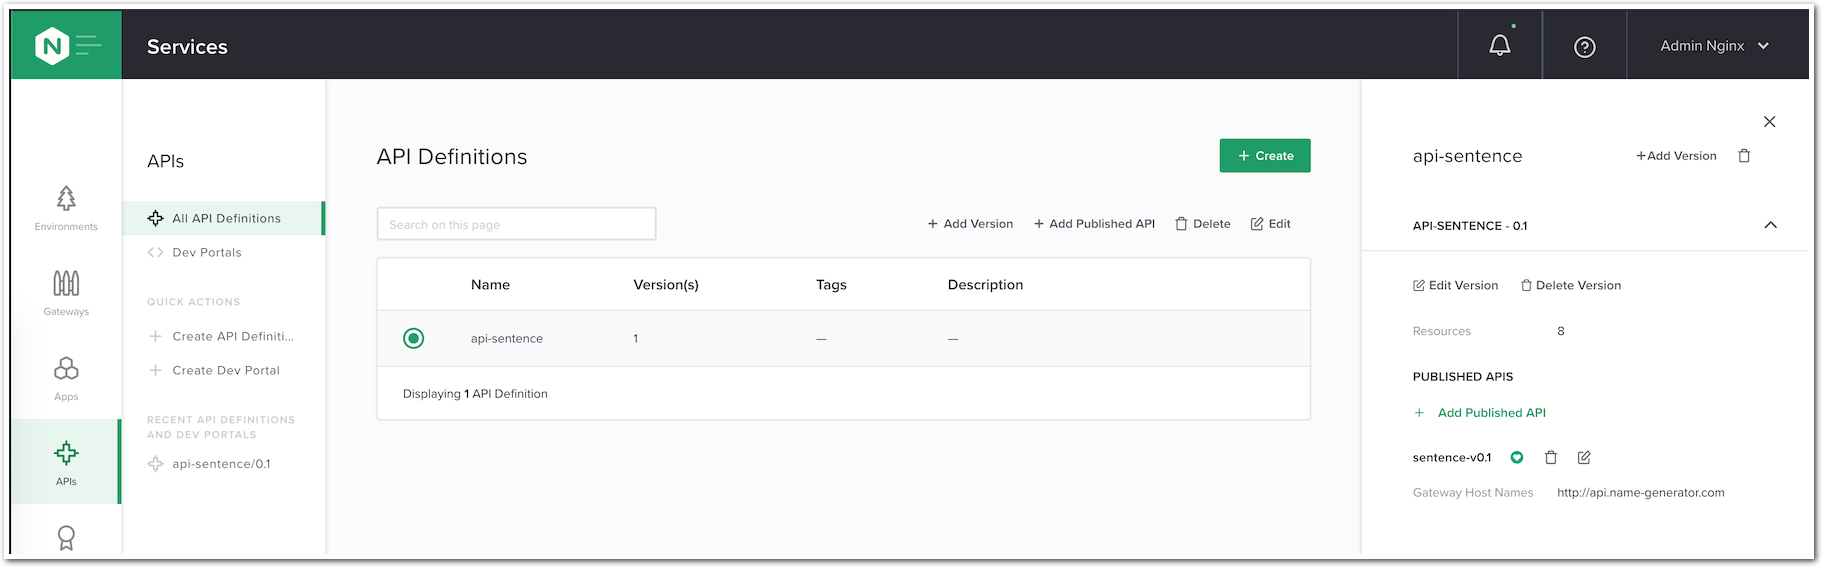
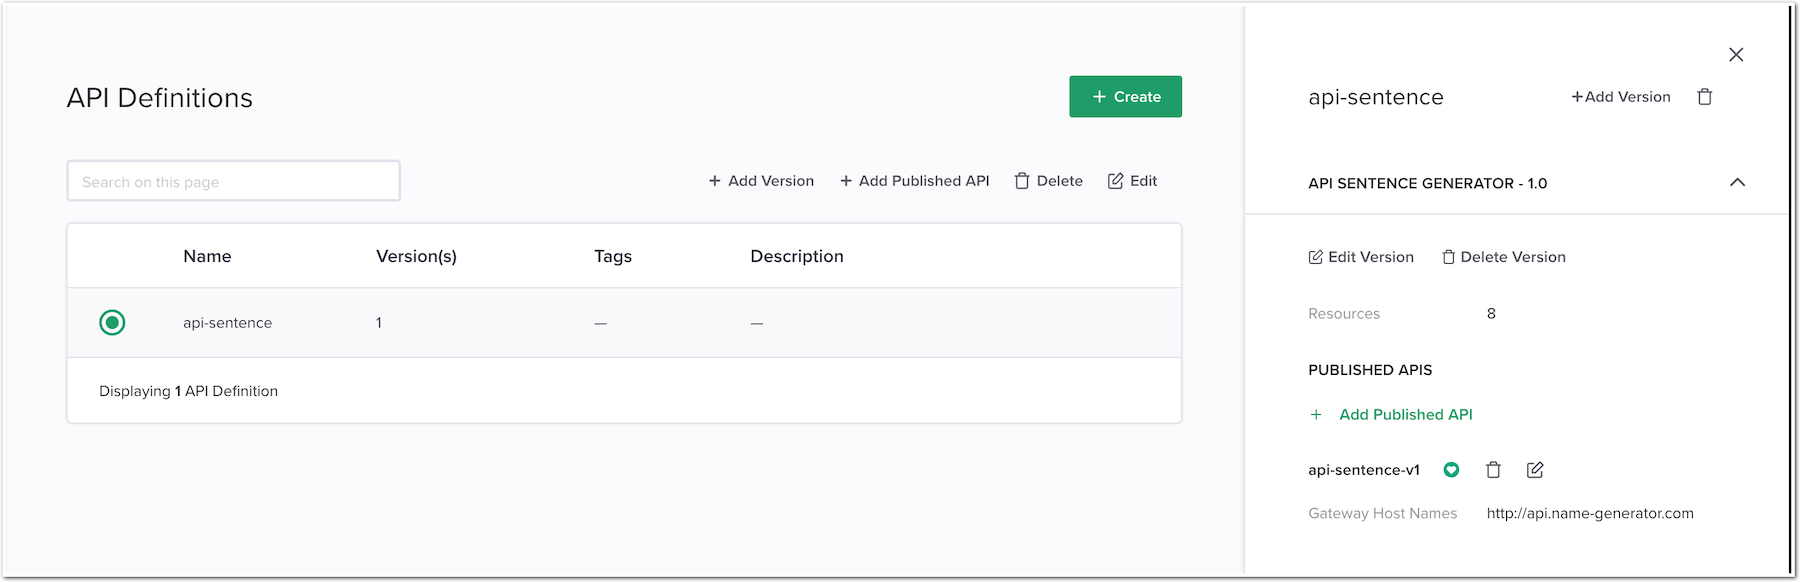
fix v1.0

diff --git a/docs/class6/module3/lab1/lab1.rst b/docs/class6/module3/lab1/lab1.rst
@@ -23,8 +23,8 @@ Create the API Definition
 #. In the controller UI, in the menu ``APIs``, create an ``API Definition``
     #. Name: api-sentence
     #. Select ``OpenAPI Specification`` and ``Copy and paste specification text``
-    #. Copy and paste the YAML content from https://app.swaggerhub.com/apis/F5EMEASSA/API-Sentence/1.0.0
-    #. Verify the version set by the controller is ``v1.0.0``. This information is extracted from the Spec file
+    #. Copy and paste the YAML content from https://app.swaggerhub.com/apis/F5EMEASSA/API-Sentence/1.0
+    #. Verify the version set by the controller is ``1.0``. This information is extracted from the Spec file
     #. Click ``Next``, and you can notice the controller imported all ``PATH`` and ``METHODS`` from the spec file.
     #. click ``Submit``
 
